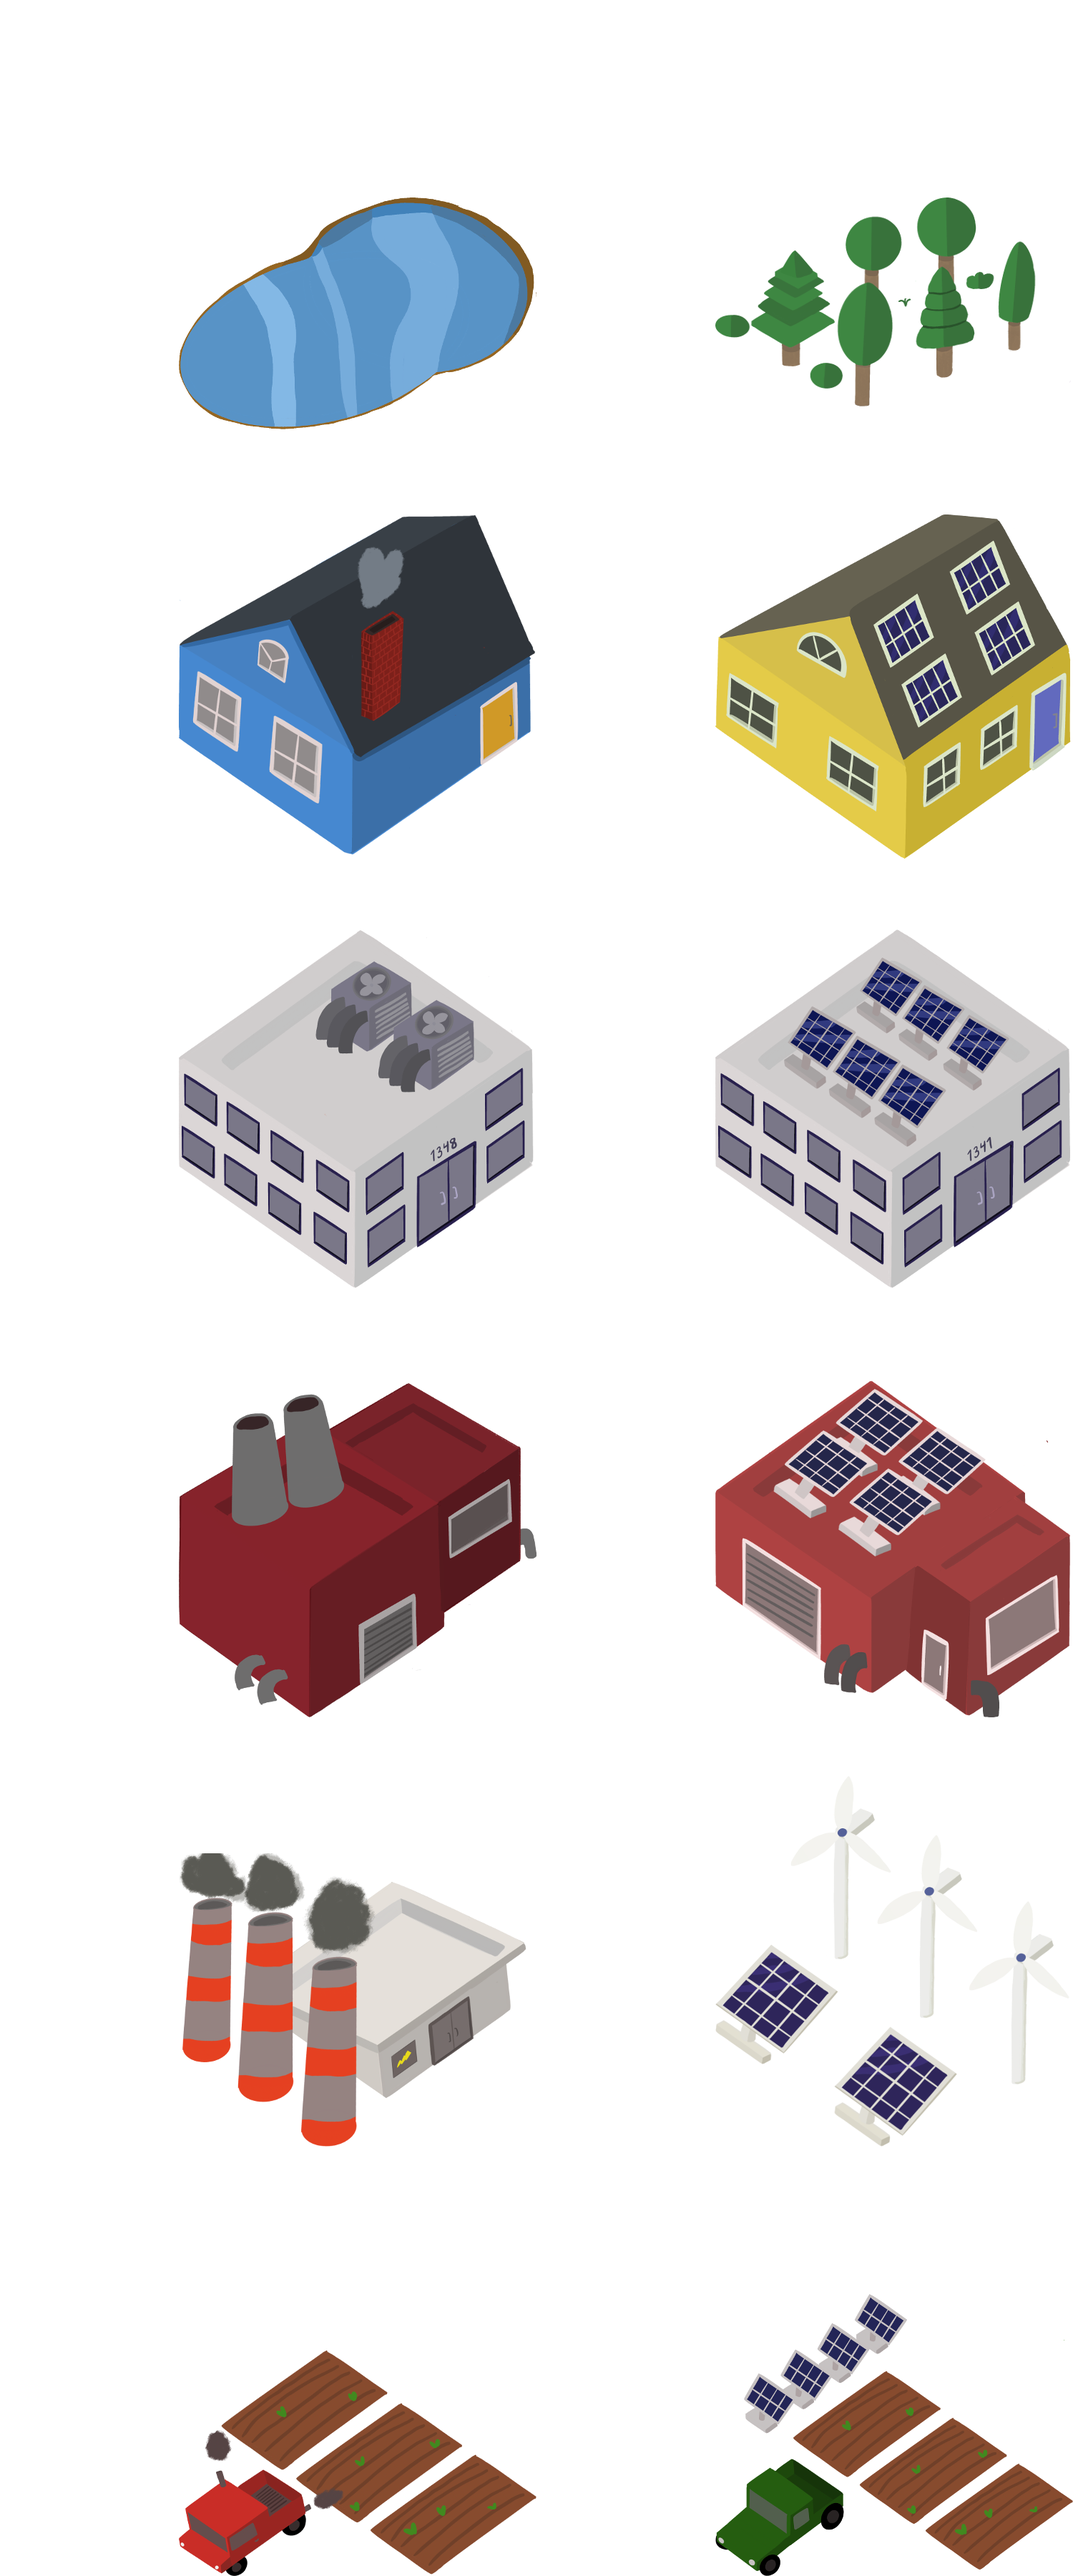
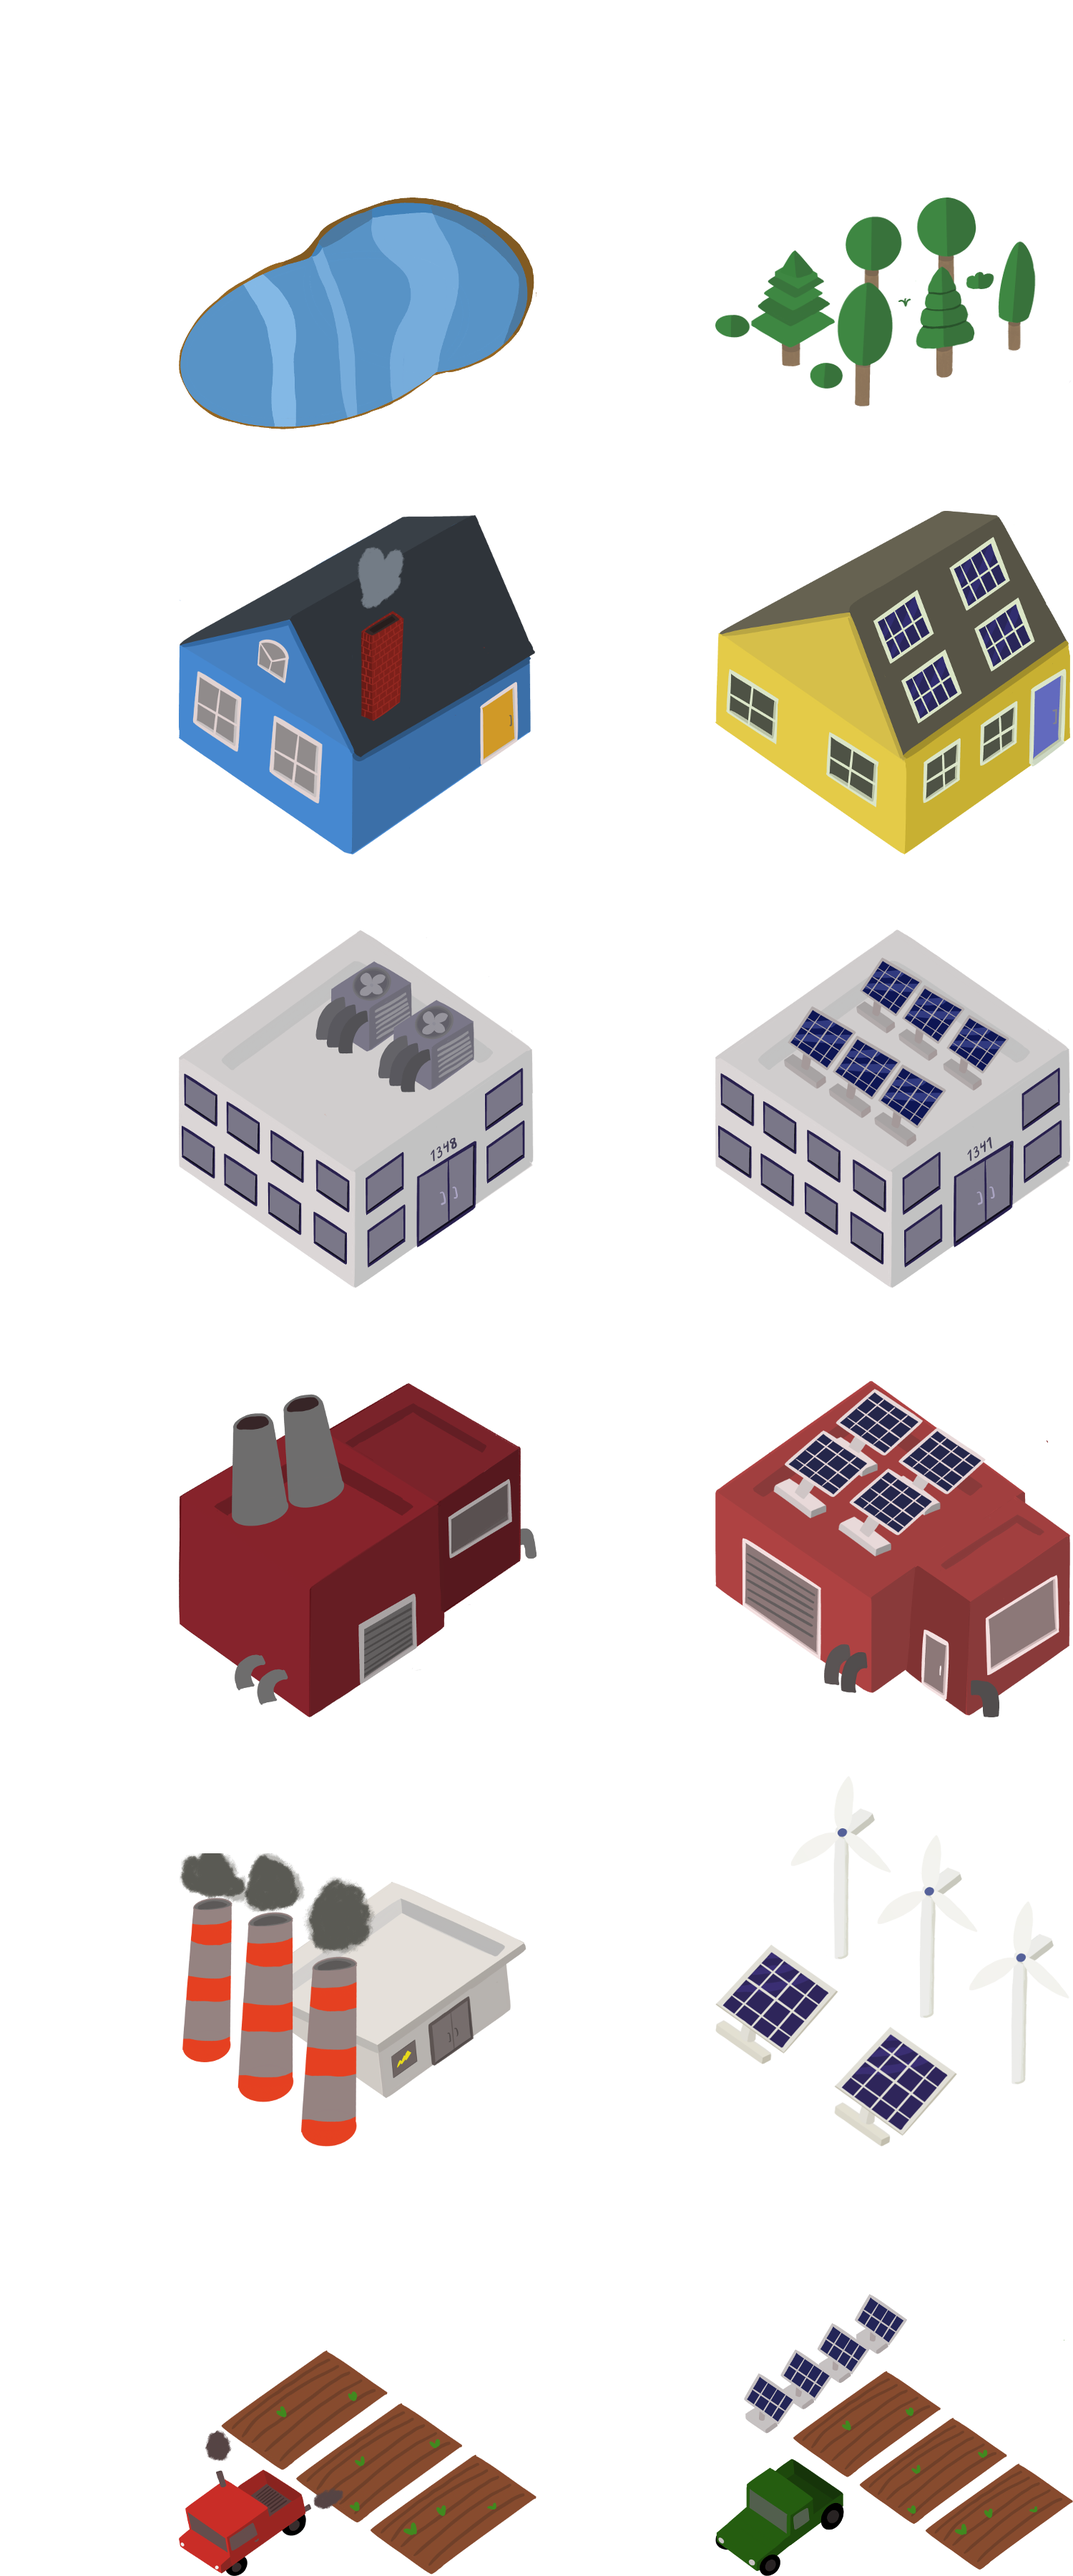
Add ability to switch tiles to green variant Right now the formula is not very precise, but it does the trick

Changed region(s): [[0.6747, 0.1867, 1.0, 0.3111]]

diff --git a/src/components/Tile.vue b/src/components/Tile.vue
@@ -5,7 +5,11 @@
     @click="tileSelected()"
     :style="{ 'animation-delay': animDelay }">
     <div class="above-ground -building">
-      <div :class="'tile-img ' + tile.type"
+      <div
+        :class="[
+          'tile-img ' + tile.type,
+          { '-green': tile.isGreenVariant }
+        ]"
         :style="{ 'animation-delay': imgAnimDelay }">
         {{ $t(`simulator.tileTypes.${tile.type}`) }}
       </div>
@@ -63,20 +67,6 @@ const GridAnimDelaySec = AnimationOffsetSec * Math.pow(GridWidth, 2);
     imgAnimDelay(): string {
       return (this.tileNum * AnimationOffsetSec) + GridAnimDelaySec + 's';
     },
-
-    tileImg(): string | null {
-      if (this.tile.type === TileType.House) {
-        return 'House.svg';
-      }
-      else if (this.tile.type == TileType.Forest) {
-        return 'Forest.svg';
-      }
-      else if (this.tile.type == TileType.Lake) {
-        return 'Lake.svg';
-      }
-
-      return null;
-    }
   }
 })
 
@@ -118,13 +108,16 @@ export default class Game extends Vue { }
   }
 
   .above-ground {
+    width: 100%;
+    height: 100%;
     transform:
       // Reverse the game board rotation and skew to straighten above ground
       // assets
       skew(-$skewDeg, -$skewDeg) rotate(-$boardRotation)
+      // Scale images up compared to what would fit in the tile
+      scale(1.1)
       // Move images back a bit on the tile
-      translate(0, -10px);
-    width: 100%;
+      translate(0, -10%);
 
     // Default building images to invisible and have them fall onto the game
     // board after the board animation completes
@@ -137,24 +130,33 @@ export default class Game extends Vue { }
   }
 
   .tile-img:not(.empty) {
-    background-image: url('~@/assets/tile-sheet.png');
+    position: absolute;
+    width: 100%;
+    height: 110%;
     font-size: 0;
     color: transparent;
-    width: 100%;
-    padding: 50% 0;
     margin: auto;
+    background-image: url('~@/assets/tile-sheet.png');
     background-size: 300%;
     background-repeat: no-repeat;
     // Default to first tile spot to show rendering error
     background-position: 25% 45%;
 
+    // If a tile is using it's green variant, just switch to the second column
+    // of icons
+    &.-green { background-position-x: 100%; }
+
     &.lake {
       background-position: 25% 5%;
       width: 80%;
-      padding: 40% 0;
-      margin-bottom: 20%;
+      height: 80%;
+      margin-top: 10%;
+      margin-left: 10%;
     }
-    &.forest { background-position: 100% 5%; }
+
+    &.forest {
+      background-position: 100% 5%;
+    }
 
     &.house {
       background-position-y: 22%;
@@ -174,6 +176,9 @@ export default class Game extends Vue { }
 
     &.farm {
       background-position-y: 102%;
+      // Move the farm back on the tile
+      top: -20%;
+      right: -15%;
     }
   }
 }

diff --git a/src/classes/tile-obj.ts b/src/classes/tile-obj.ts
@@ -1,5 +1,5 @@
 import { DefaultTileOptions } from '../constants/tile-defaults';
-import { TileType, IOptions } from '../interfaces/tile-interfaces';
+import { TileType, IOption, IOptions } from '../interfaces/tile-interfaces';
 
 /**
  * A tile object, which contains all the info needed for rendering this tile
@@ -9,6 +9,9 @@ export class TileObj {
   id: number;
   type: TileType;
   options: IOptions | null; // empty tiles don't have options
+
+  /** Whether this tile should */
+  isGreenVariant: boolean = false;
 
   constructor(id: number, type: TileType) {
     this.id = id;
@@ -24,5 +27,50 @@ export class TileObj {
     return this.type === TileType.Empty
       || this.type === TileType.Forest
       || this.type === TileType.Lake;
+  }
+
+  /**
+   * Recalculate any properties of the tile that are based on its options. This
+   * should be called anytime when the tiles options are updated, to update
+   * properties like `isGreenVariant`.
+   */
+  recalculateProperties() {
+    this.isGreenVariant = this.shouldBeGreen();
+  }
+
+  /**
+   * A total 0 - 1 green score to help us judge whether this tile should show
+   * its green variant or the default polluting variant. We show the tile as
+   * green if the score is > 0.5.
+   *
+   * TODO: Enhance this and add unit tests to confirm it works with a variety
+   * of options, as currently this ignores the targetYear and original value
+   * entirely.
+   */
+  totalGreenScore(): number {
+    // Guard against not having options (empty tile)
+    if (!this.options) {
+      return 0;
+    }
+
+    const optionsArr = Object.values(this.options);
+
+    const optionsCount = optionsArr.length;
+
+    let targetTotal = 0;
+
+    optionsArr
+      .forEach((opt: IOption) => targetTotal += opt.target);
+
+    return targetTotal / optionsCount;
+  }
+
+  /**
+   * Whether this tile should render as a "green" (renewable) variant based on
+   * its options. This should start false and flip to true after the user has
+   * changed a few options to make the tile fairly more climate friendly.
+   */
+  shouldBeGreen(): boolean {
+    return this.totalGreenScore() > 0.5;
   }
 }

diff --git a/src/components/Game.vue b/src/components/Game.vue
@@ -31,7 +31,7 @@
     <TileOverlay
       :tile="selectedTile"
       @closed="tileOverlayClosed()"
-      @tile-updated="tileUpdated(tile)"></TileOverlay>
+      @tile-updated="tileUpdated($event)"></TileOverlay>
   </main>
 </template>
 
@@ -71,7 +71,9 @@ import TileOverlay from './TileOverlay.vue';
     },
 
     // Takes in a TileObj, but we don't use that at the moment
-    tileUpdated() {
+    tileUpdated(tile: TileObj) {
+      tile.recalculateProperties();
+
       this.recalculateTemps();
     },
 

diff --git a/src/classes/simulator.ts b/src/classes/simulator.ts
@@ -12,7 +12,7 @@ export const GridWidth = 4;
  */
 const DefaultBoardLayout: Array<TileType> = [
     TileType.Forest, TileType.Farm, TileType.Empty, TileType.Forest,
-    TileType.Forest, TileType.House, TileType.Office, TileType.Factory,
+    TileType.Forest, TileType.House, TileType.Office, TileType.Empty,
     TileType.Empty, TileType.Empty, TileType.Power, TileType.Lake,
     TileType.Empty, TileType.Factory, TileType.Forest, TileType.Forest,
 ]

diff --git a/src/components/TileOverlay.vue b/src/components/TileOverlay.vue
@@ -115,9 +115,6 @@ const AnimDurationMs = 300;
     submitOptions(submitEvent: Event) {
       submitEvent.preventDefault();
 
-      console.log('Tile updated! New options:',
-        JSON.stringify(this.tile.options));
-
       this.$emit('tileUpdated', this.tile);
       this.closeOverlay();
     }
